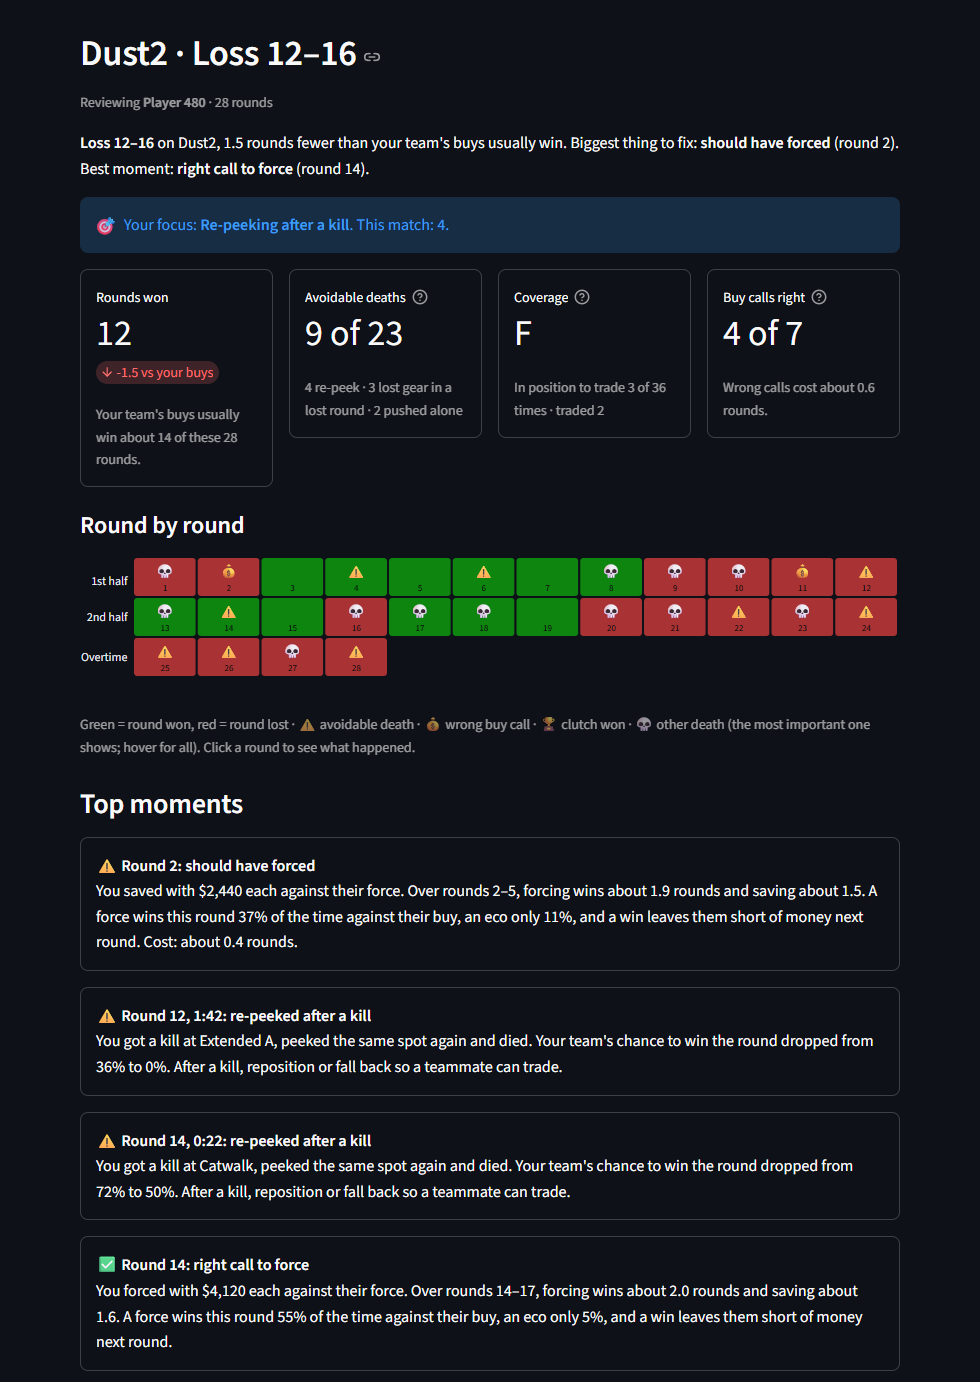
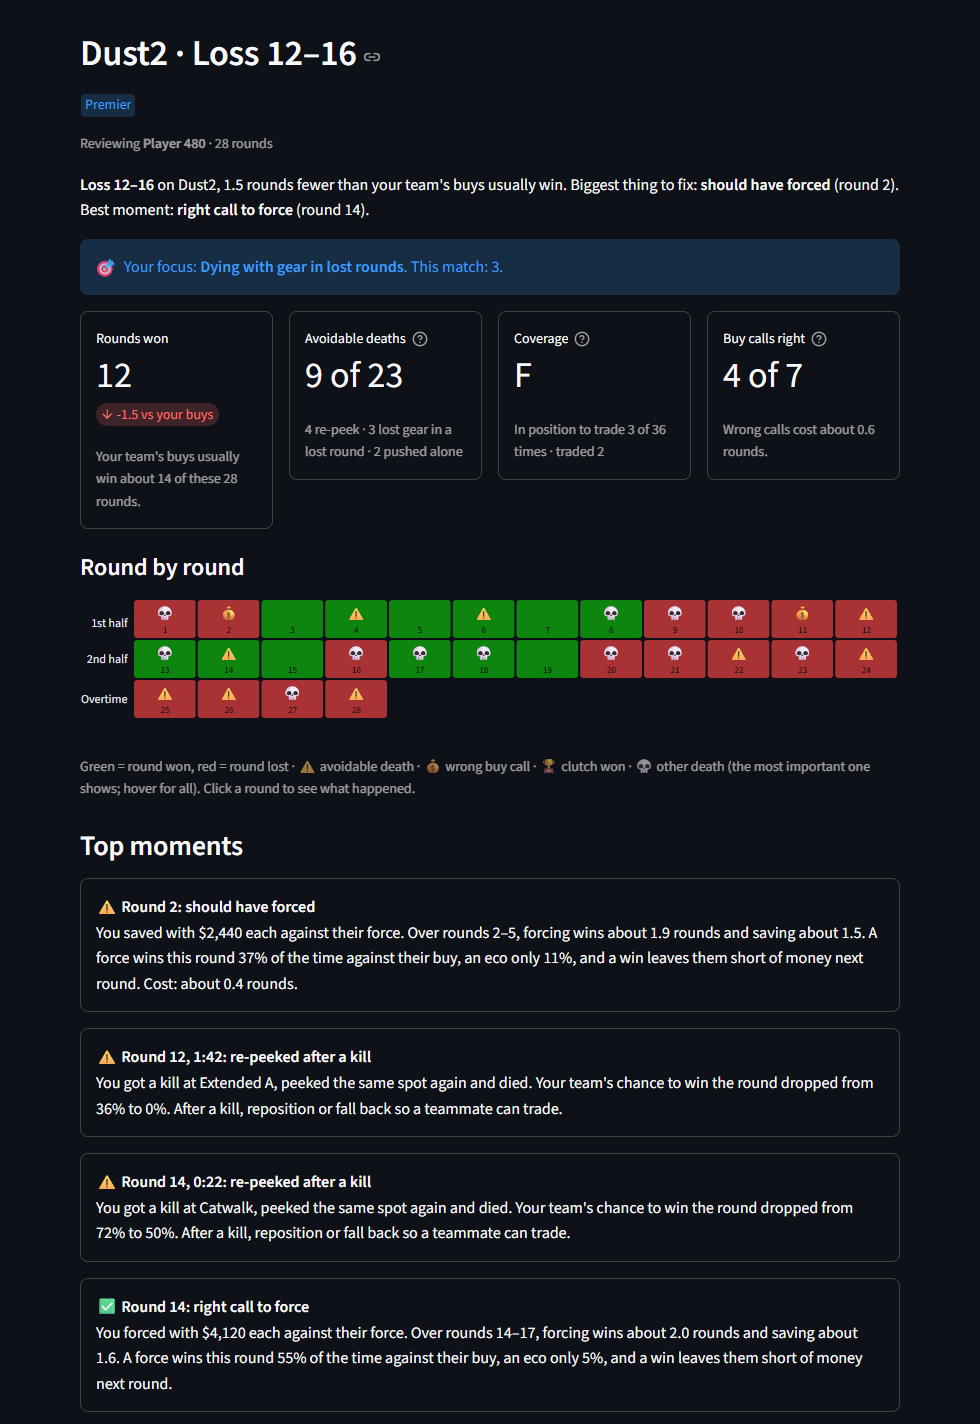
Add a Second-half plan tab to the match report
Up to three things to change from the first half, what to do about each
and whether the second half followed through.

Changed region(s): [[0.0612, 0.0311, 0.9184, 0.8712], [0.0918, 0.9023, 0.8878, 0.9957], [0.8878, 0.8712, 0.9184, 0.9023]]

diff --git a/app.py b/app.py
@@ -26,6 +26,7 @@ from cs2_insights.duo import Duo, Support, build_duo, partners
 from cs2_insights.fights import FightModel, fit_fight_model, opening_duels
 from cs2_insights.grade import CLOSE, GOOD_CALL, SHOULD_FORCE, SHOULD_SAVE
 from cs2_insights.habits import MIN_MATCHES, build_habits, checklist
+from cs2_insights.halfplan import DID_IT, NO_CHANGE, SOME_PROGRESS, TOO_FEW, Plan
 from cs2_insights.ingest import DEMO_SUFFIXES, check_demo, completeness_warning, explain_parse_error, ingest, plain_demo
 from cs2_insights.progress import FOCUS, RECENT_MATCHES, history, match_numbers
 from cs2_insights.rates import equipment_slope
@@ -301,7 +302,9 @@ def render_report(report: Report, past: pd.DataFrame | None = None, current: dic
             st.markdown(f"{icon} **{moment.title}**  \n{moment.detail}")
 
     # Three groups, each with its own sub-tabs, so the page doesn't open on a wall of six choices.
-    fights_tab, teamplay_tab, economy_tab = st.tabs(["⚔ Fights", "🤝 Teamplay", "💰 Economy"])
+    fights_tab, teamplay_tab, economy_tab, plan_tab = st.tabs(["⚔ Fights", "🤝 Teamplay", "💰 Economy", "🧭 Second-half plan"])
+    with plan_tab:
+        render_second_half(report, mode)
     with fights_tab:
         deaths_tab, clutch_tab = st.tabs(["💀 Your deaths", "🎯 Clutches & openings"])
         with deaths_tab:
@@ -787,6 +790,50 @@ def render_replay(replay: Replay | None) -> None:
     st.altair_chart(replay_chart(replay, theme_mode()), width="stretch")
     st.markdown(replay.takeaway)
     st.caption(f"{replay.note} These are estimates from Getleanpeek's models, not a prediction of what would have happened.")
+
+
+PLAN_ICONS = {DID_IT: "✅", SOME_PROGRESS: "➖", NO_CHANGE: "⚠", TOO_FEW: "⏳"}
+
+
+def plan_chart(plan: Plan, mode: str) -> alt.Chart:
+    """Each plan item's count in the first half against the second."""
+    palette = COLORS[mode]
+    first, second = f"Rounds 1–{plan.last_first_round}", "After the switch"
+    rows = pd.DataFrame([{"item": item.label, "half": half, "count": count, "stack": index}
+                         for item in plan.items for index, (half, count) in enumerate(((first, item.first), (second, item.second)))])
+    y = alt.Y("item:N", title=None, sort=[item.label for item in plan.items], axis=alt.Axis(labelLimit=240, ticks=False, domain=False))
+    x = alt.X("count:Q", title="Times", axis=alt.Axis(tickMinStep=1), scale=alt.Scale(domainMin=0))
+    offset = alt.YOffset("half:N", sort=[first, second])
+    bars = alt.Chart(rows).mark_bar(cornerRadiusEnd=4).encode(
+        y=y, x=x, yOffset=offset,
+        color=alt.Color("half:N", title=None, sort=[first, second], scale=alt.Scale(domain=[first, second], range=[palette["neutral"], palette["Your team"]]),
+                        legend=alt.Legend(orient="top", direction="horizontal")),
+        tooltip=[alt.Tooltip("item:N", title="Habit"), alt.Tooltip("half:N", title="When"), alt.Tooltip("count:Q", title="Times")],
+    ).properties(height=alt.Step(20))
+    labels = alt.Chart(rows).mark_text(align="left", dx=5, fontSize=12, color=palette["text"]).encode(y=y, x=x, yOffset=offset, text="count:Q").properties(height=alt.Step(20))
+    return alt.layer(bars, labels)
+
+
+def render_second_half(report: Report, mode: str) -> None:
+    plan = report.plan
+    if plan is None:
+        st.info("This match doesn't have a first half to plan from.")
+        return
+    st.markdown(f"What you'd want to hear at the side switch, written from **rounds 1–{plan.last_first_round}** only. "
+                f"After round {plan.last_first_round} you switch to **{plan.next_side}**.")
+    if not plan.items:
+        st.success("A clean first half: nothing to change.")
+        return
+    for number, item in enumerate(plan.items, start=1):
+        with st.container(border=True):
+            st.markdown(f"**{number}. {item.label}** · {item.first} time{'s' if item.first != 1 else ''} in the first half  \n**In the second half:** {item.action}")
+            if item.status:
+                detail = f"{item.first} in {plan.first_rounds} rounds, then {item.second} in {plan.second_rounds}."
+                st.markdown(f"{PLAN_ICONS[item.status]} **{item.status}.** {detail}")
+    if plan.second_rounds:
+        st.altair_chart(plan_chart(plan, mode), width="stretch")
+    st.caption("One half is a small sample, so read this as what happened, not a score. \"Did it\" means the rate per round at least halved; "
+               "overtime isn't counted, and a second half under 6 rounds isn't judged.")
 
 
 def render_buy_calls(report: Report) -> None:

diff --git a/src/cs2_insights/report.py b/src/cs2_insights/report.py
@@ -17,6 +17,7 @@ from cs2_insights.fights import FightModel, clutches, coverage, coverage_summary
 from cs2_insights.grade import CLOSE, FORCE, GOOD_CALL, SHOULD_FORCE, SHOULD_SAVE, grade_decisions
 from cs2_insights.rates import DEFAULT_EQUIPMENT_SLOPE, expected_win_rate, pooled_rates  # noqa: F401  (re-exported)
 from cs2_insights.categories import category_of
+from cs2_insights.halfplan import Plan, build_plan
 from cs2_insights.utility import review_team_flashes, team_flashes, utility_summary
 
 UPSET_BELOW = 0.40
@@ -59,6 +60,7 @@ class Report:
     utility: dict = field(default_factory=dict)  # utility.utility_summary()
     team_flashes: pd.DataFrame = field(default_factory=pd.DataFrame)  # your flashes that blinded a teammate
     flash_review: pd.DataFrame = field(default_factory=pd.DataFrame)  # utility.review_team_flashes(): a verdict for each of those
+    plan: Plan | None = None  # halfplan.build_plan(): what to change after the first half, and whether it changed
     clutches: pd.DataFrame = field(default_factory=pd.DataFrame)  # fights.clutches() where you were last alive
     openings: pd.DataFrame = field(default_factory=pd.DataFrame)  # fights.opening_duels() you were in
     steamid: str = ""
@@ -179,6 +181,7 @@ def build_report(
         }
     )
 
+    flash_review = review_team_flashes(parsed.blinds, judged, steamid)
     return Report(
         summary=summary,
         rounds=rounds,
@@ -193,7 +196,8 @@ def build_report(
         all_deaths=judged,
         utility=utility_summary(parsed.utility, judged, steamid) if len(parsed.utility) else {},
         team_flashes=team_flashes(parsed.blinds, steamid),
-        flash_review=review_team_flashes(parsed.blinds, judged, steamid),
+        flash_review=flash_review,
+        plan=build_plan(rounds, my_deaths, parsed.trade_chances, calls, flash_review),
         clutches=my_clutches,
         openings=opening_duels(parsed.deaths, parsed.team_rounds, steamid) if len(parsed.deaths) else pd.DataFrame(),
         steamid=steamid,

diff --git a/README.md b/README.md
@@ -33,6 +33,10 @@ Real output from real matches. Player names are replaced with stand-ins.
 
 ![Utility tab](docs/screenshots/utility.png)
 
+**Second-half plan.** Three things to change, written only from the first half, then whether you did them.
+
+![Second-half plan](docs/screenshots/second-half.png)
+
 **Clutches.** Every round you were last alive: was fighting or saving right, given your chance to win, the bomb timer and what your gear was worth over the next few rounds? A replay chart shows what each option was worth.
 
 ![Clutches tab](docs/screenshots/clutches.png)
@@ -54,11 +58,12 @@ Real output from real matches. Player names are replaced with stand-ins.
 ![Opening duels by callout](docs/screenshots/openings.png)
 
 ## Features
-- **Match report.** Pick one of your CS2 replays or upload a demo (`.dem`, or FACEIT's compressed `.dem.gz` / `.dem.zst`), then choose the player to review. Uploads are checked first (wrong, CS:GO, renamed or cut-off files get a clear message), analysing shows each step as it happens, a demo that stops before anyone won is flagged so a partial report isn't mistaken for the whole match, and read errors are explained in plain words. Press **This is me** once and Getleanpeek opens on you from then on. A **round timeline** marks every round you won or lost, with icons for avoidable deaths, wrong buy calls and won clutches; click a round to see its full story. The details sit in three tabs: **Fights** (deaths, clutches & openings), **Teamplay** (coverage, utility) and **Economy** (buy calls, round by round).
+- **Match report.** Pick one of your CS2 replays or upload a demo (`.dem`, or FACEIT's compressed `.dem.gz` / `.dem.zst`), then choose the player to review. Uploads are checked first (wrong, CS:GO, renamed or cut-off files get a clear message), analysing shows each step as it happens, a demo that stops before anyone won is flagged so a partial report isn't mistaken for the whole match, and read errors are explained in plain words. Press **This is me** once and Getleanpeek opens on you from then on. A **round timeline** marks every round you won or lost, with icons for avoidable deaths, wrong buy calls and won clutches; click a round to see its full story. The details sit in four tabs: **Fights** (deaths, clutches & openings), **Teamplay** (coverage, spacing, utility), **Economy** (buy calls, round by round) and the **Second-half plan**.
   - **Your deaths:** each one labelled *traded*, *avoidable* (re-peeked after a kill, pushed with nobody close enough to trade, died with gear in a lost round), *teammates didn't trade* or *lost a duel*, with the reasons, the cost to your team's round win chance, a moment map, and a one-click-copy console command to jump to it in the demo.
   - **Coverage grade (A–F):** how often you were close enough to trade a teammate and aiming at his killer, graded against every player in the pool, with moments to repeat and to fix.
   - **Spacing:** how far your nearest teammate was each time you died, and how often deaths at that distance get traded across the pool (about 30% within 300 units, 2% alone), with the trades you'd likely have gotten by playing closer. Crossfires are shown but not graded: in the pool so far they didn't lead to more quick trades than playing the same line (see `decisions.md`).
   - **Utility:** grenades thrown, enemies flashed per flash, teammates flashed, grenade damage, and deaths with unused grenades, against the match average. The **flash review** judges every flash that blinded a teammate: *cost a teammate* (they died still blind), *wasted* (no enemy caught) or *trade-off* (it caught an enemy too).
+  - **Second-half plan:** up to three things to change, chosen only from rounds before the side switch, each with what to do and whether the second half followed through. Compared per round; one half is a small sample, so it reports what happened rather than scoring you.
   - **Clutches & openings:** a fight-or-save verdict for every 1vX, and every opening duel you were in.
   - **Buy calls:** every force-or-save decision graded "Good call", "Close call", "Should have forced" or "Should have saved", with the rounds each wrong call cost.
   - **Economy:** both teams' equipment and buys, round by round.
@@ -155,6 +160,7 @@ python -m cs2_insights.link add https://steamcommunity.com/id/<name> CSGO-xxxxx-
 | `src/cs2_insights/recap.py` | Your latest matches against the ones before |
 | `src/cs2_insights/categories.py` | Premier, Competitive and FACEIT match categories |
 | `src/cs2_insights/duo.py` | How two teammates back each other up |
+| `src/cs2_insights/halfplan.py` | What to change after the first half, and whether it changed |
 | `src/cs2_insights/proof.py` | Whether a focus habit changed since it was picked, and the shareable card |
 | `src/cs2_insights/replay.py` | What each option in a decision was worth |
 | `src/cs2_insights/utility.py` | Grenade and flash summary per match, and the team flash review |
